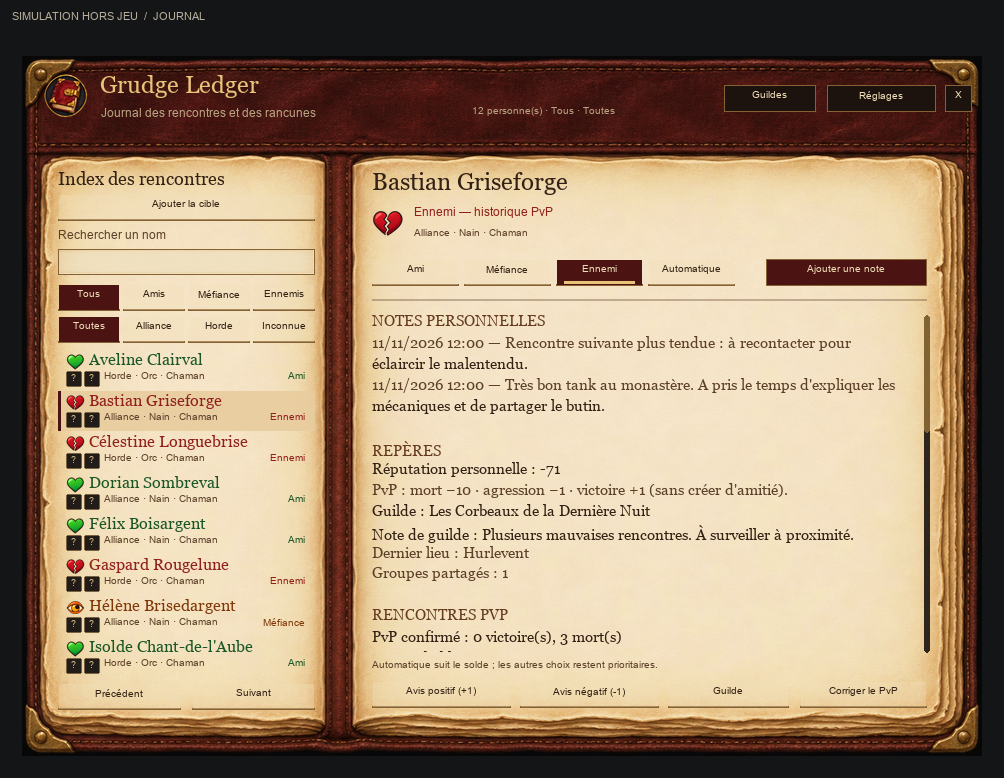
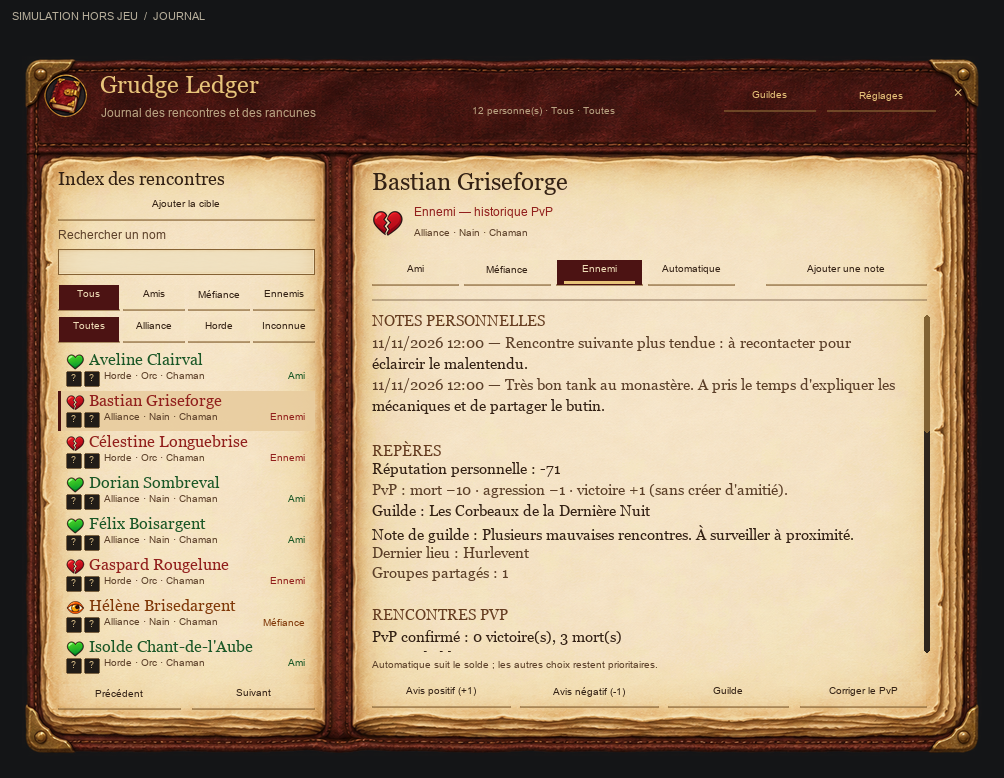
Polish book transparency and shared button styling

Changed region(s): [[0.7102, 0.0925, 0.988, 0.1542], [0.741, 0.3085, 0.9263, 0.3702]]

diff --git a/visual-qa/render.py b/visual-qa/render.py
@@ -213,10 +213,12 @@ def render(name, frames, root):
     margin, banner = 22, 34
     # Minimap controls may deliberately extend beyond the map disc.
     if name.startswith("minimap"): margin = 48
-    canvas = Image.new("RGBA", (math.ceil(rb[2] + margin*2), math.ceil(rb[3] + margin*2 + banner)), (20,21,23,255))
+    transparent = name == "journal-transparent"
+    canvas = Image.new("RGBA", (math.ceil(rb[2] + margin*2), math.ceil(rb[3] + margin*2 + banner)), (0,0,0,0) if transparent else (20,21,23,255))
     offsetx, offsety = margin - rb[0], margin + banner - rb[1]
     heading = ImageDraw.Draw(canvas)
-    heading.text((12,10), "SIMULATION HORS JEU  /  " + name.upper(), font=font(11), fill=(183,174,155,255))
+    if not transparent:
+        heading.text((12,10), "SIMULATION HORS JEU  /  " + name.upper(), font=font(11), fill=(183,174,155,255))
     layers = {"BACKGROUND":0,"BORDER":1,"ARTWORK":2,"OVERLAY":3,"HIGHLIGHT":4}
     minimap_button = next((r["id"] for r in frames if r.get("name") == "GrudgeLedgerMinimapButton"), None)
     regions = [r for r in frames if (lay.descendant(r["id"], root) or
@@ -347,7 +349,27 @@ def render(name, frames, root):
                 sd.rounded_rectangle((x,y,x+5,y+h),radius=2,fill=(46,37,29,255))
                 th=max(18,h*h/ch);top=y+min(h-th,r.get("vertical",0)/max(1,ch-h)*(h-th))
                 sd.rounded_rectangle((x,top,x+5,top+th),radius=2,fill=(129,98,51,255))
-    canvas.convert("RGB").save(OUT/(name+".png"))
+    if transparent:
+        left, top, right, bottom = margin, margin+banner, margin+round(rb[2]), margin+banner+round(rb[3])
+        alpha = canvas.getchannel("A")
+        for box in ((0,0,canvas.width,top), (0,bottom,canvas.width,canvas.height), (0,top,left,bottom), (right,top,canvas.width,bottom)):
+            assert alpha.crop(box).getextrema()[1] == 0, "journal has a rectangular shadow outside the book"
+        for point in ((left,top), (right-1,top), (left,bottom-1), (right-1,bottom-1)):
+            assert alpha.getpixel(point) <= 3, "journal backing covers a transparent artwork corner"
+        canvas.crop((left,top,right,bottom)).save(OUT/(name+".png"))
+        # A light checkerboard exposes dark halos that a dark preview would hide.
+        checker = Image.new("RGBA", canvas.size, (190,190,182,255))
+        draw = ImageDraw.Draw(checker)
+        for y in range(0,canvas.height,16):
+            for x in range(0,canvas.width,16):
+                if (x//16+y//16)%2: draw.rectangle((x,y,x+15,y+15), fill=(221,221,213,255))
+        checker.alpha_composite(canvas)
+        canvas = checker
+        heading = ImageDraw.Draw(canvas)
+        heading.text((12,10), "SIMULATION HORS JEU  /  TRANSPARENCE", font=font(11), fill=(50,50,45,255))
+        canvas.convert("RGB").save(OUT/(name+"-checker.png"))
+    else:
+        canvas.convert("RGB").save(OUT/(name+".png"))
     return issues, canvas.convert("RGB")
 
 
@@ -359,7 +381,7 @@ def main():
     g.QA_TextWidth=lambda text,size,title=False: font(size,title).getlength(plaintext(text))
     g.QA_TextLines=lambda text,width,size,title=False: len(wrap(text,width,size,title))
     lua.execute((BASE/"capture.lua").read_text(encoding="utf-8"))
-    views=["journal","journal-readable","journal-no-paper","journal-no-book","journal-horde-friends","journal-empty","journal-small","journal-small-bottom","journal-readable-small-bottom","guilds","note","note-readable","settings","settings-readable","corrections","diagnostic","minimap","minimap-large","alert","alert-probable","alert-long-guild"]
+    views=["journal","journal-readable","journal-transparent","journal-no-paper","journal-no-book","journal-horde-friends","journal-empty","journal-small","journal-small-bottom","journal-readable-small-bottom","guilds","note","note-readable","settings","settings-readable","corrections","diagnostic","minimap","minimap-large","alert","alert-probable","alert-long-guild"]
     images, report, snapshots=[],{},{}
     for name in views:
         root=g.QA.capture(name)

diff --git a/README.md b/README.md
@@ -30,6 +30,8 @@ It is a small hobby project, shared as it is, and it may evolve with playtesting
 
 The journal is an open, aged book with two parchment pages, stitched red leather, layered page edges and restrained brass corners. The index keeps a relationship icon, explicit label and dark readable ink. Classification and note-taking stay at the top; less frequent actions sit at the foot of the page. Its visual direction was inspired by Overlord, using original artwork. This preview is rendered from the actual Lua layout outside WoW, with synthetic records and approximated native fonts/icons.
 
+The book follows its transparent artwork outline, without a rectangular black shadow. Shared buttons use gold lettering on leather and brown ink on parchment, with subtle underlines and separate hover, pressed, disabled and selected states.
+
 Titles, names and journal text use WoW’s native calligraphic font families (Morpheus for the Latin alphabet). Notes use a 15-pixel reading/editing font; compact controls and small labels retain their regular font.
 
 In **Settings** (`/gl settings`), enable **“Police classique (plus lisible)”** to use the native chat font at the same sizes instead of calligraphy. Disable it to restore the grimoire style. Titles, names and notes update immediately, drafts are preserved, and the choice is saved. Compact buttons keep their regular font.
@@ -44,7 +46,7 @@ A **gray medallion** marks known neutral people in the journal and on their visi
 
 ## Install
 
-1. Download **`GrudgeLedger-0.4.4.zip`** from [Releases](https://github.com/Aizakira/GrudgeLedger/releases/latest).
+1. Download **`GrudgeLedger-0.4.5.zip`** from [Releases](https://github.com/Aizakira/GrudgeLedger/releases/latest).
 2. Extract the `GrudgeLedger` folder into your Forever client's `Interface/AddOns` folder. The final path must be `Interface/AddOns/GrudgeLedger/GrudgeLedger.toc`.
 3. Restart WoW and enable Grudge Ledger in the addon list.
 
@@ -97,7 +99,7 @@ python tests/run_tests.py
 GitHub Actions runs the same suite on Linux and Windows. See [DEVELOPMENT.txt](DEVELOPMENT.txt) for the optional offline UI renderer. To build an installable archive from the repository root:
 
 ```sh
-python -m zipfile -c GrudgeLedger-0.4.4.zip GrudgeLedger
+python -m zipfile -c GrudgeLedger-0.4.5.zip GrudgeLedger
 ```
 
 Issues and pull requests in French or English are welcome. For bugs, include the addon/client versions, steps to reproduce, expected and actual behavior, and a screenshot with personal information hidden if useful. Keep fixes focused and run the existing tests. Please do not submit anyone's personal journal.

diff --git a/README.fr.md b/README.fr.md
@@ -34,6 +34,8 @@ Le journal est un livre ouvert : deux pages de parchemin vieilli, du cuir rouge 
 
 Les titres, les noms et le texte de la fiche utilisent désormais les familles calligraphiques natives de WoW (Morpheus pour l’alphabet latin). Les notes se lisent et se saisissent en 15 pixels ; les commandes et petites indications conservent une police compacte.
 
+Le livre suit le contour transparent de son illustration, sans ombre noire rectangulaire. Les boutons partagent une écriture dorée sur le cuir ou une encre brune sur le parchemin, un trait discret et des états de survol, clic, désactivation et sélection distincts.
+
 Dans **Réglages** (`/gl settings`), cocher **« Police classique (plus lisible) »** remplace la calligraphie par la police native du chat, aux mêmes tailles. Décocher rétablit le style grimoire. Le changement est immédiat pour les titres, les noms et les notes, conserve les brouillons et reste sauvegardé. Les boutons compacts restent inchangés.
 
 ## Solde de rancune
@@ -46,7 +48,7 @@ Un **médaillon gris** identifie les personnes connues neutres dans le journal e
 
 ## Installation et premiers pas
 
-1. Télécharger **`GrudgeLedger-0.4.4.zip`** dans les [versions publiées](https://github.com/Aizakira/GrudgeLedger/releases/latest).
+1. Télécharger **`GrudgeLedger-0.4.5.zip`** dans les [versions publiées](https://github.com/Aizakira/GrudgeLedger/releases/latest).
 2. Extraire le dossier `GrudgeLedger` dans `Interface/AddOns` du client Forever. Le fichier doit se trouver ici : `Interface/AddOns/GrudgeLedger/GrudgeLedger.toc`.
 3. Redémarrer WoW et activer Grudge Ledger dans la liste des addons.
 
@@ -105,7 +107,7 @@ python tests/run_tests.py
 Les mêmes tests sont exécutés sur Linux et Windows par GitHub Actions. Voir [DEVELOPMENT.txt](DEVELOPMENT.txt) pour le rendu d'interface facultatif hors jeu. Depuis la racine du dépôt, cette commande crée une archive installable :
 
 ```sh
-python -m zipfile -c GrudgeLedger-0.4.4.zip GrudgeLedger
+python -m zipfile -c GrudgeLedger-0.4.5.zip GrudgeLedger
 ```
 
 ## Licence et crédits
